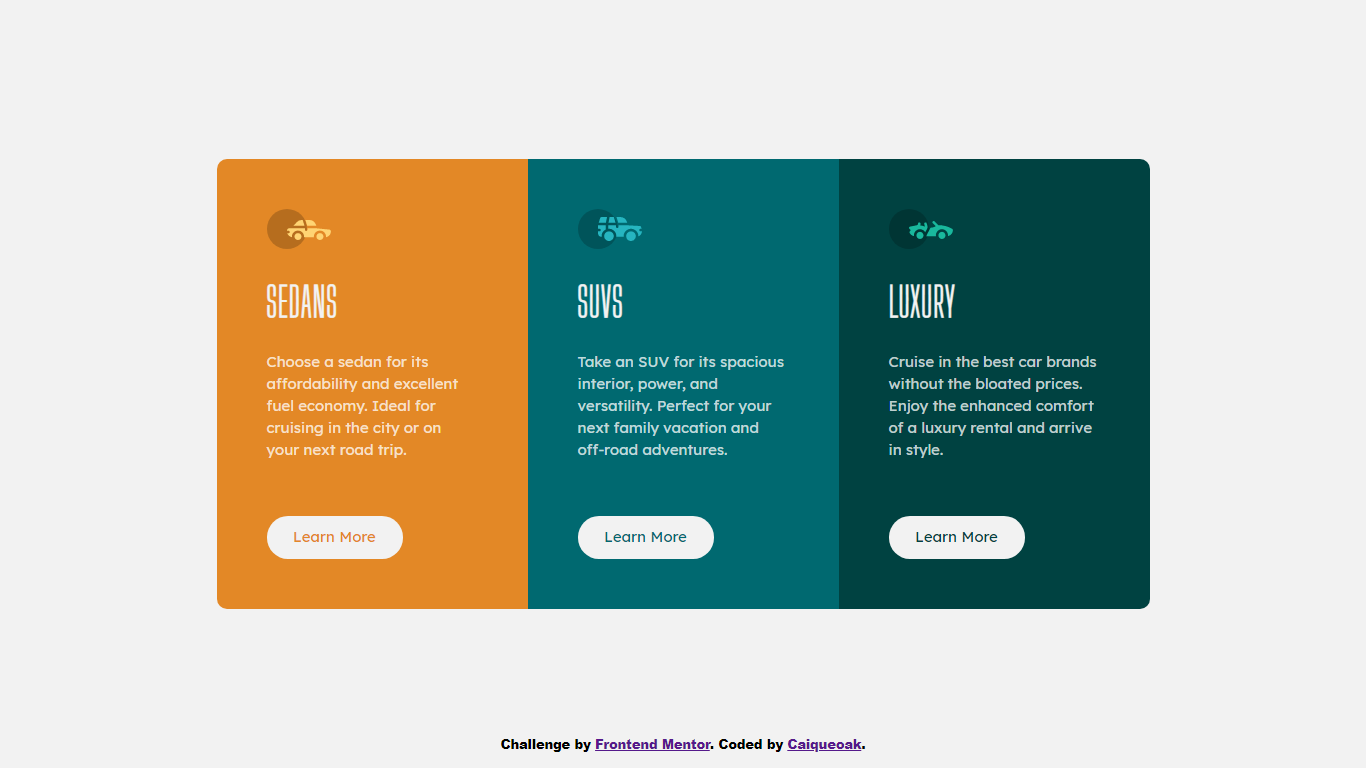
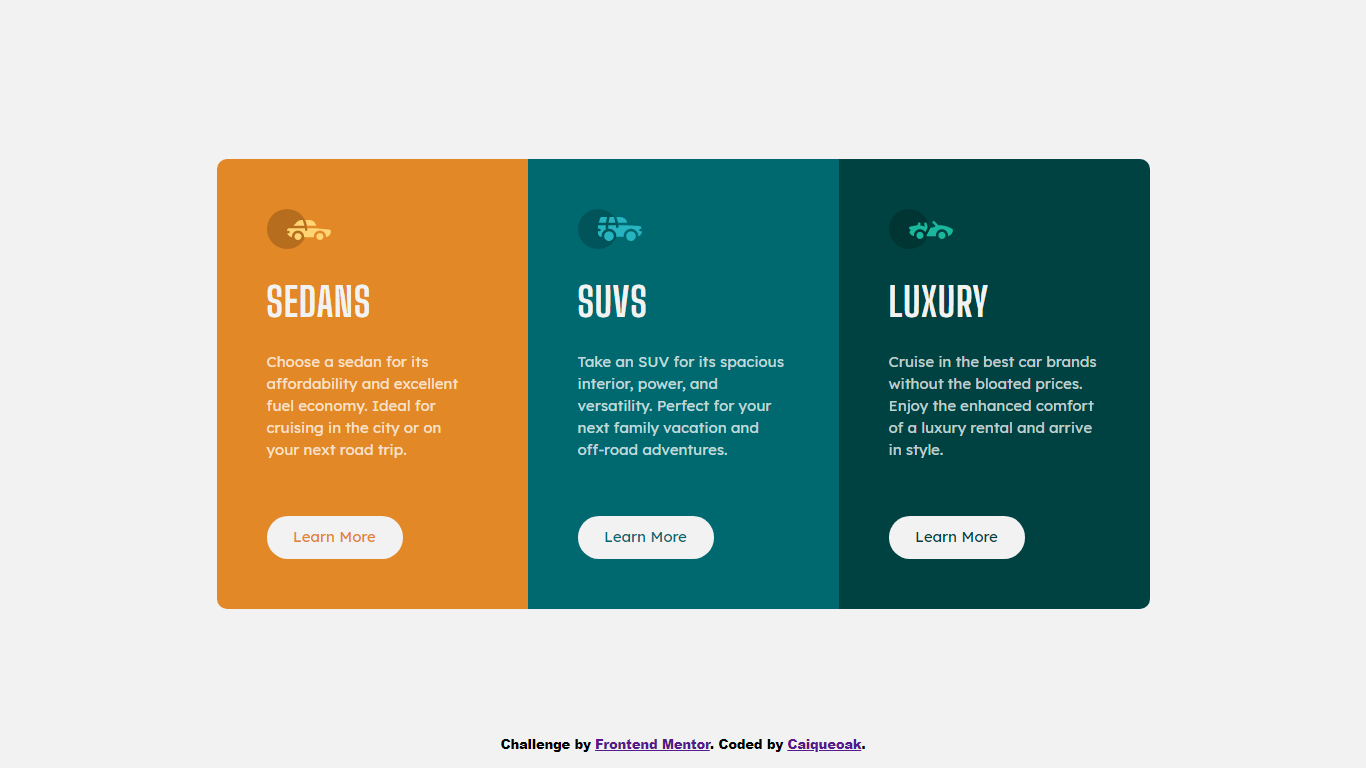
added the right font family in the titles

Changed region(s): [[0.1845, 0.3438, 0.2767, 0.4375], [0.6457, 0.3438, 0.7379, 0.4375], [0.3997, 0.3438, 0.4919, 0.4375]]

diff --git a/style.css b/style.css
@@ -4,8 +4,6 @@
     --Very-dark-cyan: hsl(179, 100%, 13%);
     --paragraphs: hsla(0, 0%, 100%, 0.75);
     --Bg-headings-buttons:  hsl(0, 0%, 95%);
-    --Lexend-Deca-weights: 400;
-    --Big-Shoulders-weights: 700;
     --Lexend-Deca: 'Lexend Deca', sans-serif;
     --Big-Shoulders: 'Big Shoulders Display', cursive;
     box-sizing: border-box;
@@ -27,7 +25,7 @@ body{
     display: grid;
     grid-template-columns: 1fr 1fr 1fr;
     width: 933px;
-    height: 450px;
+    height: 480px;
 }
 
 /* CARDS */
@@ -53,7 +51,6 @@ body{
 .title{
     color: var(--Bg-headings-buttons);
     font-family: var(--Big-Shoulders);
-    font-weight: var(--Big-Shoulders-weights);
     font-size: 2.5rem;
     letter-spacing: 1px;
     padding: 25px 0;
@@ -61,14 +58,12 @@ body{
 .description-text{
     color: var(--paragraphs);
     font-family: var(--Lexend-Deca);
-    font-weight: var(--Lexend-Deca-weights);
     line-height: 1.4rem;
 }
 .learn-more-button{
     position: absolute;
     bottom: var(--cards-padding);
     font-family: var(--Lexend-Deca);
-    font-weight: var(--Lexend-Deca-weights);
     background-color: var(--Bg-headings-buttons);
     border-radius: 100px;
     height: 2.7rem;

diff --git a/index.html b/index.html
@@ -6,7 +6,8 @@
   <link rel="stylesheet" href="style.css">
   <link rel="preconnect" href="https://fonts.googleapis.com">
   <link rel="preconnect" href="https://fonts.gstatic.com" crossorigin>
-  <link href="https://fonts.googleapis.com/css2?family=Big+Shoulders+Display:wght@100&family=Lexend+Deca&display=swap" rel="stylesheet">
+  <link href="https://fonts.googleapis.com/css2?family=Big+Shoulders+Display:wght@700&display=swap" rel="stylesheet">
+  <link href="https://fonts.googleapis.com/css2?family=Lexend+Deca&display=swap" rel="stylesheet">
   <title>Caique Carvalho</title>
 </head>
 <body>
